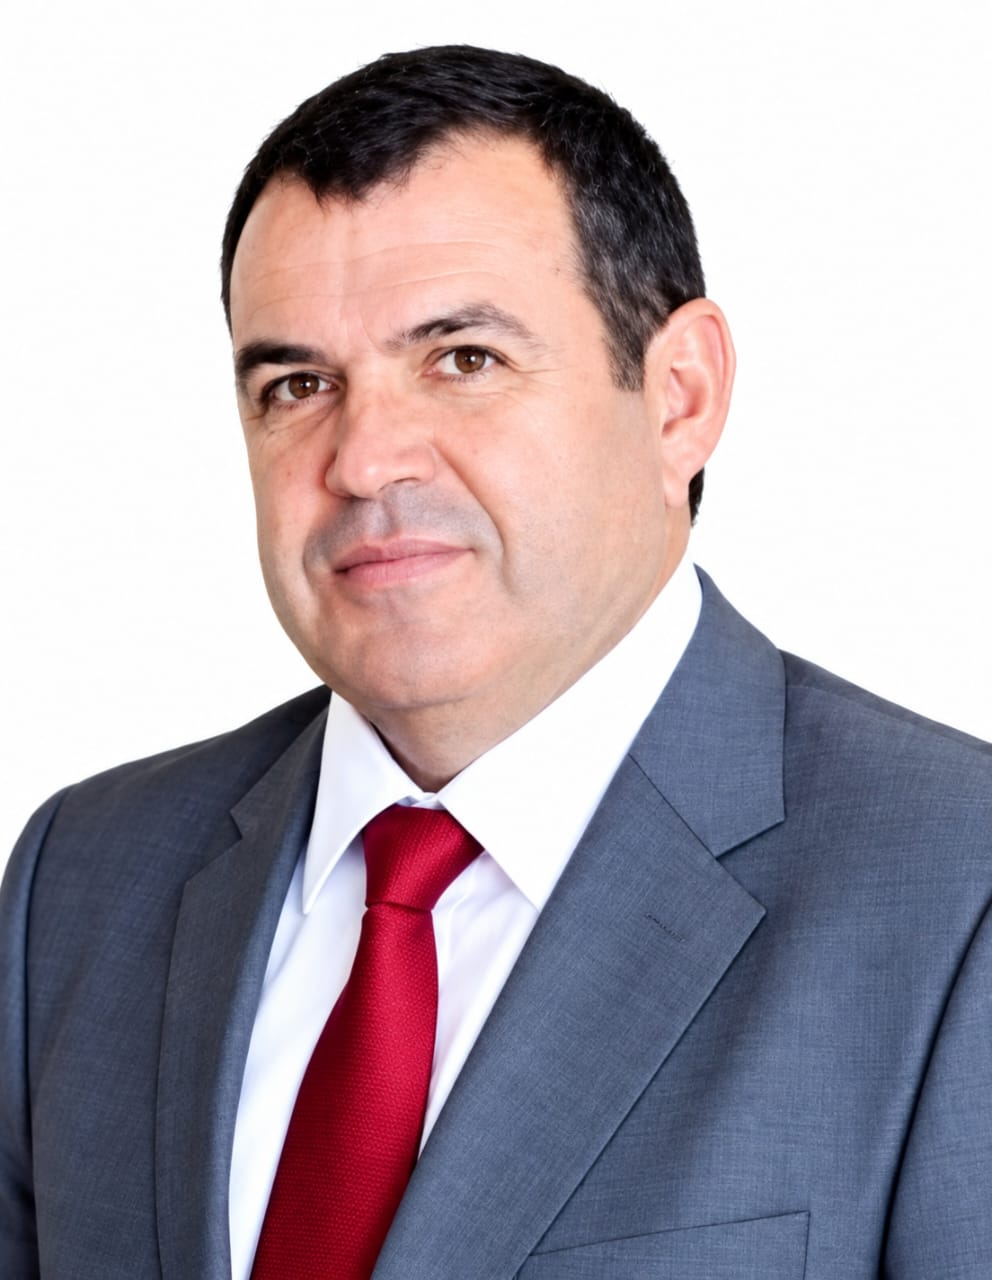
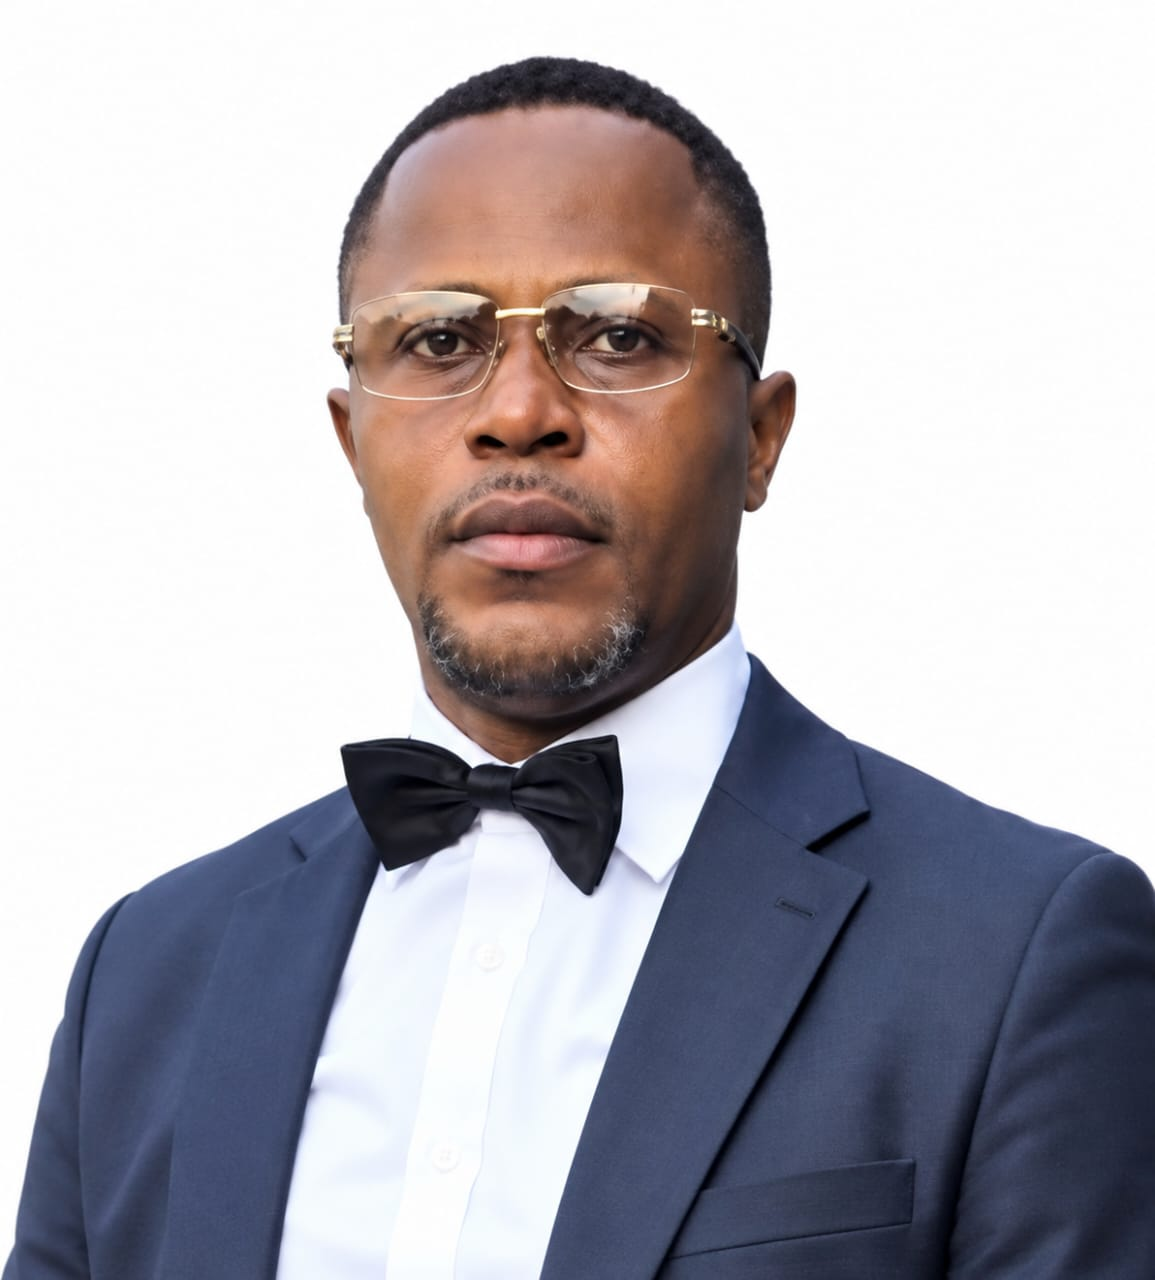
Rebrand to CICCO SAS, update team and headquarters info

diff --git a/index.html b/index.html
@@ -3,7 +3,7 @@
 <head>
 <meta charset="UTF-8">
 <meta name="viewport" content="width=device-width, initial-scale=1.0">
-<title>CICCO SAS — Les Cités Chrétiennes du Congo</title>
+<title>CICCO SAS</title>
 <style>
   :root{
     --black:#000;
@@ -339,7 +339,6 @@
       <img src="logo.jpg" alt="CICCO SAS">
       <div>
         <div class="brand-name">CICCO SAS</div>
-        <div class="brand-sub" data-i18n="companyShort">Les Cités Chrétiennes du Congo</div>
       </div>
     </div>
     <nav class="main">
@@ -373,7 +372,6 @@
     <div class="content">
       <span class="hero-kicker fade-up"><i></i><span data-i18n="heroKicker">Bienvenue chez CICCO</span></span>
       <h1 class="fade-up">CICCO <span class="accent">SAS</span></h1>
-      <div class="company fade-up" data-i18n="companyFull">Les Cités Chrétiennes du Congo</div>
       <p class="tagline fade-up" data-i18n="tagline">Une nouvelle manière d'entreprendre basée sur la morale et la rigueur.</p>
       <div class="hero-cta fade-up">
         <button class="btn btn-gold" onclick="scrollToPresentation()"><span data-i18n="ctaDiscover">Découvrir</span><span class="arr">→</span></button>
@@ -387,7 +385,7 @@
       <div class="sec-head reveal">
         <div class="sec-kicker"><span data-i18n="homeTitle">Présentation</span></div>
         <h2 data-i18n="homeGeneralTitle">Présentation Générale</h2>
-        <p data-i18n="homeGeneral">Les Cités Chrétiennes du Congo (CICCO en abrégé) est une société née dans le souci de répondre à l'élan de la croissance démographique et économique constaté depuis déjà plusieurs décennies, afin de résoudre les problèmes environnementaux qui en résultent.</p>
+        <p data-i18n="homeGeneral">CICCO est une société née dans le souci de répondre à l'élan de la croissance démographique et économique constaté depuis déjà plusieurs décennies, afin de résoudre les problèmes environnementaux qui en résultent.</p>
       </div>
       <div class="grid cols-3">
         <div class="card reveal d1">
@@ -447,7 +445,7 @@
         <div class="card reveal d1">
           <div class="icon">⌂</div>
           <h3><span data-i18n="aboutSeatAddrLabel">Adresse :</span></h3>
-          <p data-i18n="aboutSeatAddr">CICCO est basée en République Démocratique du Congo. Son bureau est sur l'avenue Nyangwe n° 277, C/Lingwala, Ville de Kinshasa.</p>
+          <p data-i18n="aboutSeatAddr">CICCO est basée en République Démocratique du Congo. Siège social : Kinshasa/RDC.</p>
         </div>
         <div class="card reveal d2">
           <div class="icon">☷</div>
@@ -535,10 +533,17 @@
           </div>
         </div>
         <div class="profile reveal d2">
-          <img class="photo" src="directeur-technique.jpg" alt="Carlos PAREDES">
+          <img class="photo" src="directeur-technique.jpg" alt="Jonas BINZANGI NGOY">
+          <div class="meta">
+            <h3>Jonas BINZANGI NGOY</h3>
+            <p data-i18n="dirTech">Directeur Technique</p>
+          </div>
+        </div>
+        <div class="profile reveal d5">
+          <img class="photo" src="directeur-cooperation.jpg" alt="Carlos PAREDES">
           <div class="meta">
             <h3>Carlos PAREDES</h3>
-            <p data-i18n="dirTech">Directeur Technique</p>
+            <p data-i18n="dirCoop">Directeur de la Coopération &amp; Partenariat</p>
           </div>
         </div>
         <div class="profile reveal d3">
@@ -644,7 +649,7 @@
               <div class="box">⌂</div>
               <div class="wrap">
                 <b data-i18n="contactSeatLabel">Siège social</b>
-                <span>RDC, Avenue Nyangwe n° 277, C/Lingwala, Kinshasa</span>
+                <span>Siège social : Kinshasa/RDC</span>
               </div>
             </div>
             <div class="info-item">
@@ -677,7 +682,7 @@
     </div>
     <div>
       <h4 data-i18n="aboutSeatTitle">Siège</h4>
-      <p>République Démocratique du Congo<br>Avenue Nyangwe n° 277, C/Lingwala<br>Ville de Kinshasa</p>
+      <p>Siège social : Kinshasa/RDC</p>
     </div>
     <div>
       <h4 data-i18n="contactTitle">Contact</h4>
@@ -714,9 +719,7 @@
   const translations = {
     fr: {
       langLabel: "Langue",
-      companyShort: "Les Cités Chrétiennes du Congo",
       heroKicker: "Bienvenue chez CICCO",
-      companyFull: "Les Cités Chrétiennes du Congo",
       tagline: "Une nouvelle manière d'entreprendre basée sur la morale et la rigueur.",
       ctaDiscover: "Découvrir",
       ctaContact: "Nous contacter",
@@ -743,7 +746,7 @@
       toastEmpty: "Veuillez écrire une question avant d'envoyer.",
       homeTitle: "Présentation",
       homeGeneralTitle: "Présentation Générale",
-      homeGeneral: "Les Cités Chrétiennes du Congo (CICCO en abrégé) est une société née dans le souci de répondre à l'élan de la croissance démographique et économique constaté depuis déjà plusieurs décennies, afin de résoudre les problèmes environnementaux qui en résultent.",
+      homeGeneral: "CICCO est une société née dans le souci de répondre à l'élan de la croissance démographique et économique constaté depuis déjà plusieurs décennies, afin de résoudre les problèmes environnementaux qui en résultent.",
       homePrinciplesTitle: "Principes Directeurs",
       homePrinciples: "CICCO se base sur la morale et les méthodologies bibliques (chrétiennes) comme principes directeurs de son fonctionnement.",
       homeSkillsTitle: "Compétences & Équipe",
@@ -759,7 +762,7 @@
       aboutMission: "CICCO permet à l'homme de réaliser ses rêves et de trouver son prestige dans la société.",
       aboutSeatTitle: "Siège",
       aboutSeatAddrLabel: "Adresse",
-      aboutSeatAddr: "CICCO est basée en République Démocratique du Congo. Son bureau est sur l'avenue Nyangwe n° 277, C/Lingwala, Ville de Kinshasa.",
+      aboutSeatAddr: "CICCO est basée en République Démocratique du Congo. Siège social : Kinshasa/RDC.",
       aboutRepLabel: "Représentations",
       aboutRep: "La Société peut avoir des représentations dans toutes les provinces de la République Démocratique du Congo et au besoin à l'étranger.",
       aboutActivitiesTitle: "Nos Activités",
@@ -786,6 +789,7 @@
       dirTeamTitle: "Équipe Dirigeante",
       dirPresident: "Président",
       dirTech: "Directeur Technique",
+      dirCoop: "Directeur de la Coopération & Partenariat",
       dirFin: "Directeur Administratif & Financier",
       dirAsset: "Chef des Chantiers",
       contactTitle: "Contact Direct",
@@ -795,9 +799,7 @@
     },
     en: {
       langLabel: "Language",
-      companyShort: "Christian Cities of Congo",
       heroKicker: "Welcome to CICCO",
-      companyFull: "Christian Cities of Congo",
       tagline: "A new way of doing business based on morality and rigour.",
       ctaDiscover: "Discover",
       ctaContact: "Contact us",
@@ -824,7 +826,7 @@
       toastEmpty: "Please write a question before sending.",
       homeTitle: "Presentation",
       homeGeneralTitle: "General Presentation",
-      homeGeneral: "The Christian Cities of Congo (abbreviated CICCO) is a company born from the desire to respond to the momentum of demographic and economic growth observed over the past decades, in order to solve the resulting environmental problems.",
+      homeGeneral: "CICCO is a company born from the desire to respond to the momentum of demographic and economic growth observed over the past decades, in order to solve the resulting environmental problems.",
       homePrinciplesTitle: "Guiding Principles",
       homePrinciples: "CICCO is based on morality and biblical (Christian) methodologies as the guiding principles of its operations.",
       homeSkillsTitle: "Skills & Team",
@@ -840,7 +842,7 @@
       aboutMission: "CICCO enables man to fulfil his dreams and find his prestige in society.",
       aboutSeatTitle: "Head Office",
       aboutSeatAddrLabel: "Address",
-      aboutSeatAddr: "CICCO is based in the Democratic Republic of the Congo. Its office is on Nyangwe Avenue n° 277, C/Lingwala, Kinshasa.",
+      aboutSeatAddr: "CICCO is based in the Democratic Republic of the Congo. Head office: Kinshasa/DRC.",
       aboutRepLabel: "Representations",
       aboutRep: "The Company may have representations in all provinces of the Democratic Republic of the Congo and, if needed, abroad.",
       aboutActivitiesTitle: "Our Activities",
@@ -867,6 +869,7 @@
       dirTeamTitle: "Executive Team",
       dirPresident: "President",
       dirTech: "Technical Director",
+      dirCoop: "Cooperation & Partnership Director",
       dirFin: "Administrative & Financial Director",
       dirAsset: "Site Manager",
       contactTitle: "Direct Contact",
@@ -876,9 +879,7 @@
     },
     es: {
       langLabel: "Idioma",
-      companyShort: "Ciudades Cristianas del Congo",
       heroKicker: "Bienvenidos a CICCO",
-      companyFull: "Ciudades Cristianas del Congo",
       tagline: "Una nueva forma de emprender basada en la moral y el rigor.",
       ctaDiscover: "Descubrir",
       ctaContact: "Contáctenos",
@@ -905,7 +906,7 @@
       toastEmpty: "Escriba una pregunta antes de enviar.",
       homeTitle: "Presentación",
       homeGeneralTitle: "Presentación General",
-      homeGeneral: "Las Ciudades Cristianas del Congo (CICCO, por sus siglas) es una sociedad nacida para responder al impulso del crecimiento demográfico y económico observado desde hace varias décadas, con el fin de resolver los problemas medioambientales que de ello se derivan.",
+      homeGeneral: "CICCO es una sociedad nacida para responder al impulso del crecimiento demográfico y económico observado desde hace varias décadas, con el fin de resolver los problemas medioambientales que de ello se derivan.",
       homePrinciplesTitle: "Principios Rectores",
       homePrinciples: "CICCO se basa en la moral y las metodologías bíblicas (cristianas) como principios rectores de su funcionamiento.",
       homeSkillsTitle: "Competencias y Equipo",
@@ -921,7 +922,7 @@
       aboutMission: "CICCO permite al hombre realizar sus sueños y encontrar su prestigio en la sociedad.",
       aboutSeatTitle: "Sede",
       aboutSeatAddrLabel: "Dirección",
-      aboutSeatAddr: "CICCO tiene su sede en la República Democrática del Congo. Su oficina está en la avenida Nyangwe n° 277, C/Lingwala, ciudad de Kinshasa.",
+      aboutSeatAddr: "CICCO tiene su sede en la República Democrática del Congo. Sede social: Kinshasa/RDC.",
       aboutRepLabel: "Representaciones",
       aboutRep: "La Sociedad puede tener representaciones en todas las provincias de la República Democrática del Congo y, si es necesario, en el extranjero.",
       aboutActivitiesTitle: "Nuestras Actividades",
@@ -948,6 +949,7 @@
       dirTeamTitle: "Equipo Directivo",
       dirPresident: "Presidente",
       dirTech: "Director Técnico",
+      dirCoop: "Director de Cooperación y Alianzas",
       dirFin: "Director Administrativo y Financiero",
       dirAsset: "Jefe de Obras",
       contactTitle: "Contacto Directo",
@@ -957,9 +959,7 @@
     },
     it: {
       langLabel: "Lingua",
-      companyShort: "Città Cristiane del Congo",
       heroKicker: "Benvenuti a CICCO",
-      companyFull: "Città Cristiane del Congo",
       tagline: "Un nuovo modo di fare impresa basato sulla morale e sul rigore.",
       ctaDiscover: "Scopri",
       ctaContact: "Contattaci",
@@ -986,7 +986,7 @@
       toastEmpty: "Scrivi una domanda prima di inviare.",
       homeTitle: "Presentazione",
       homeGeneralTitle: "Presentazione Generale",
-      homeGeneral: "Le Città Cristiane del Congo (abbreviate CICCO) è una società nata per rispondere allo slancio della crescita demografica ed economica osservata ormai da diversi decenni, al fine di risolvere i problemi ambientali che ne derivano.",
+      homeGeneral: "CICCO è una società nata per rispondere allo slancio della crescita demografica ed economica osservata ormai da diversi decenni, al fine di risolvere i problemi ambientali che ne derivano.",
       homePrinciplesTitle: "Principi Guida",
       homePrinciples: "CICCO si basa sulla morale e sulle metodologie bibliche (cristiane) come principi guida del suo funzionamento.",
       homeSkillsTitle: "Competenze e Team",
@@ -1002,7 +1002,7 @@
       aboutMission: "CICCO permette all'uomo di realizzare i propri sogni e di trovare il proprio prestigio nella società.",
       aboutSeatTitle: "Sede",
       aboutSeatAddrLabel: "Indirizzo",
-      aboutSeatAddr: "CICCO ha sede nella Repubblica Democratica del Congo. Il suo ufficio si trova in Avenue Nyangwe n° 277, C/Lingwala, Città di Kinshasa.",
+      aboutSeatAddr: "CICCO ha sede nella Repubblica Democratica del Congo. Sede sociale: Kinshasa/RDC.",
       aboutRepLabel: "Rappresentanze",
       aboutRep: "La Società può avere rappresentanze in tutte le province della Repubblica Democratica del Congo e, se necessario, all'estero.",
       aboutActivitiesTitle: "Le Nostre Attività",
@@ -1029,6 +1029,7 @@
       dirTeamTitle: "Team Direttivo",
       dirPresident: "Presidente",
       dirTech: "Direttore Tecnico",
+      dirCoop: "Direttore della Cooperazione e delle Partnership",
       dirFin: "Direttore Amministrativo e Finanziario",
       dirAsset: "Capo dei Cantieri",
       contactTitle: "Contatto Diretto",
@@ -1038,9 +1039,7 @@
     },
     pt: {
       langLabel: "Idioma",
-      companyShort: "Cidades Cristãs do Congo",
       heroKicker: "Bem-vindos à CICCO",
-      companyFull: "Cidades Cristãs do Congo",
       tagline: "Uma nova forma de empreender baseada na moral e no rigor.",
       ctaDiscover: "Descobrir",
       ctaContact: "Contacte-nos",
@@ -1067,7 +1066,7 @@
       toastEmpty: "Escreva uma pergunta antes de enviar.",
       homeTitle: "Apresentação",
       homeGeneralTitle: "Apresentação Geral",
-      homeGeneral: "As Cidades Cristãs do Congo (CICCO, na sigla) é uma sociedade nascida para responder ao impulso do crescimento demográfico e económico observado há várias décadas, a fim de resolver os problemas ambientais que dele resultam.",
+      homeGeneral: "CICCO é uma sociedade nascida para responder ao impulso do crescimento demográfico e económico observado há várias décadas, a fim de resolver os problemas ambientais que dele resultam.",
       homePrinciplesTitle: "Princípios Diretores",
       homePrinciples: "A CICCO baseia-se na moral e nas metodologias bíblicas (cristãs) como princípios diretores do seu funcionamento.",
       homeSkillsTitle: "Competências e Equipa",
@@ -1083,7 +1082,7 @@
       aboutMission: "A CICCO permite ao homem realizar os seus sonhos e encontrar o seu prestígio na sociedade.",
       aboutSeatTitle: "Sede",
       aboutSeatAddrLabel: "Endereço",
-      aboutSeatAddr: "A CICCO tem sede na República Democrática do Congo. O seu escritório fica na Avenida Nyangwe n° 277, C/Lingwala, Cidade de Kinshasa.",
+      aboutSeatAddr: "A CICCO tem sede na República Democrática do Congo. Sede social: Kinshasa/RDC.",
       aboutRepLabel: "Representações",
       aboutRep: "A Sociedade pode ter representações em todas as províncias da República Democrática do Congo e, se necessário, no estrangeiro.",
       aboutActivitiesTitle: "As Nossas Atividades",
@@ -1110,6 +1109,7 @@
       dirTeamTitle: "Equipa Dirigente",
       dirPresident: "Presidente",
       dirTech: "Diretor Técnico",
+      dirCoop: "Diretor de Cooperação e Parcerias",
       dirFin: "Diretor Administrativo e Financeiro",
       dirAsset: "Chefe de Obras",
       contactTitle: "Contacto Direto",
@@ -1119,9 +1119,7 @@
     },
     nl: {
       langLabel: "Taal",
-      companyShort: "Christelijke Steden van Congo",
       heroKicker: "Welkom bij CICCO",
-      companyFull: "Christelijke Steden van Congo",
       tagline: "Een nieuwe manier van ondernemen, gebaseerd op moraal en nauwkeurigheid.",
       ctaDiscover: "Ontdekken",
       ctaContact: "Neem contact op",
@@ -1148,7 +1146,7 @@
       toastEmpty: "Schrijf eerst een vraag voordat u verzendt.",
       homeTitle: "Presentatie",
       homeGeneralTitle: "Algemene Presentatie",
-      homeGeneral: "De Christelijke Steden van Congo (afgekort CICCO) is een bedrijf dat is ontstaan uit de wens om te reageren op de demografische en economische groei die al tientallen jaren wordt waargenomen, om de daaruit voortvloeiende milieuproblemen op te lossen.",
+      homeGeneral: "CICCO is een bedrijf dat is ontstaan uit de wens om te reageren op de demografische en economische groei die al tientallen jaren wordt waargenomen, om de daaruit voortvloeiende milieuproblemen op te lossen.",
       homePrinciplesTitle: "Leidende Principes",
       homePrinciples: "CICCO hanteert moraal en bijbelse (christelijke) methodieken als leidende principes van haar werking.",
       homeSkillsTitle: "Vaardigheden & Team",
@@ -1164,7 +1162,7 @@
       aboutMission: "CICCO stelt de mens in staat zijn dromen te verwezenlijken en zijn prestige in de samenleving te vinden.",
       aboutSeatTitle: "Zetel",
       aboutSeatAddrLabel: "Adres",
-      aboutSeatAddr: "CICCO is gevestigd in de Democratische Republiek Congo. Het kantoor bevindt zich op Nyangwe Avenue nr. 277, C/Lingwala, Stad Kinshasa.",
+      aboutSeatAddr: "CICCO is gevestigd in de Democratische Republiek Congo. Maatschappelijke zetel: Kinshasa/RDC.",
       aboutRepLabel: "Vertegenwoordigingen",
       aboutRep: "Het bedrijf kan vertegenwoordigingen hebben in alle provincies van de Democratische Republiek Congo en indien nodig in het buitenland.",
       aboutActivitiesTitle: "Onze Activiteiten",
@@ -1191,6 +1189,7 @@
       dirTeamTitle: "Bestuursteam",
       dirPresident: "Voorzitter",
       dirTech: "Technisch Directeur",
+      dirCoop: "Directeur Samenwerking & Partnerschap",
       dirFin: "Administratief & Financieel Directeur",
       dirAsset: "Chef der Werken",
       contactTitle: "Direct Contact",
